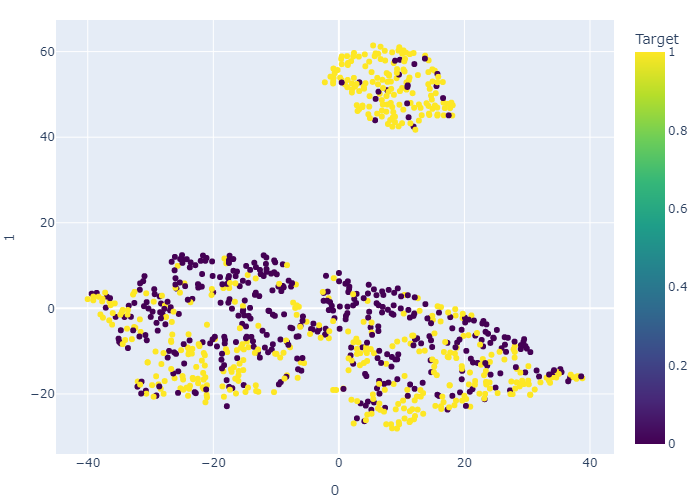
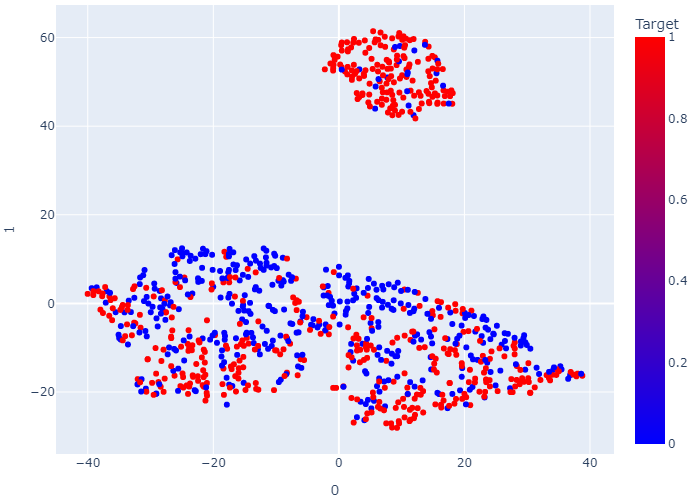
reorganizing files and adding Readme

diff --git a/code/data_processing.py b/code/data_processing.py
@@ -12,85 +12,87 @@ from imblearn.under_sampling import RandomUnderSampler
 #----------- external imports 
 
 
-def split_data(data_type:str):
+def process_data_binary():
 
-    if data_type == 'binary': 
-        df_heart = pd.read_csv("data/heart.csv")
+    df_heart = pd.read_csv("data/heart.csv")
 
-        le=LabelEncoder()
+    le=LabelEncoder()
 
-        df_heart['Sex']=le.fit_transform(df_heart['Sex'])
-        df_heart['RestingECG']=le.fit_transform(df_heart['RestingECG'])
-        df_heart['ChestPainType']=le.fit_transform(df_heart['ChestPainType'])
-        df_heart['ExerciseAngina']=le.fit_transform(df_heart['ExerciseAngina'])
-        df_heart['ST_Slope']=le.fit_transform(df_heart['ST_Slope'])
+    df_heart['Sex']=le.fit_transform(df_heart['Sex'])
+    df_heart['RestingECG']=le.fit_transform(df_heart['RestingECG'])
+    df_heart['ChestPainType']=le.fit_transform(df_heart['ChestPainType'])
+    df_heart['ExerciseAngina']=le.fit_transform(df_heart['ExerciseAngina'])
+    df_heart['ST_Slope']=le.fit_transform(df_heart['ST_Slope'])
 
-        plt.figure(figsize=(8,6))
-        ax = sns.countplot(x=df_heart['HeartDisease'],
-                        order=df_heart['HeartDisease'].value_counts(ascending=True).index);
-                
-        abs_values = df_heart['HeartDisease'].value_counts(ascending=True)
-        rel_values = df_heart['HeartDisease'].value_counts(ascending=True, normalize=True).values * 100
-        lbls = [f'{p[0]} ({p[1]:.0f}%)' for p in zip(abs_values, rel_values)]
+    plt.figure(figsize=(8,6))
+    ax = sns.countplot(x=df_heart['HeartDisease'],
+                    order=df_heart['HeartDisease'].value_counts(ascending=True).index);
+            
+    abs_values = df_heart['HeartDisease'].value_counts(ascending=True)
+    rel_values = df_heart['HeartDisease'].value_counts(ascending=True, normalize=True).values * 100
+    lbls = [f'{p[0]} ({p[1]:.0f}%)' for p in zip(abs_values, rel_values)]
 
-        ax.bar_label(container=ax.containers[0], labels=lbls)
-        ax.set_xlabel('Heart Disease')
-        plt.savefig('../img/dist_heart.png', bbox_inches='tight')
+    ax.bar_label(container=ax.containers[0], labels=lbls)
+    ax.set_xlabel('Heart Disease')
+    plt.savefig('../img/dist_heart.png', bbox_inches='tight')
 
-        features = df_heart.loc[:, :'ST_Slope']
-        tsne = TSNE(n_components=2, random_state=0)
-        projections = tsne.fit_transform(features)
+    features = df_heart.loc[:, :'ST_Slope']
+    tsne = TSNE(n_components=2, random_state=0)
+    projections = tsne.fit_transform(features)
 
-        fig = px.scatter(
-            projections, x=0, y=1,
-            color=df_heart.HeartDisease, labels={'color': 'Target'},
-            color_continuous_scale=px.colors.sequential.Viridis
-        )
-        fig.update_layout(
-            margin=dict(l=5, r=5, t=20, b=20),
-        )
+    fig = px.scatter(
+        projections, x=0, y=1,
+        color=df_heart.HeartDisease, labels={'color': 'Target'},
+        color_continuous_scale=px.colors.sequential.Bluered
+    )
+    fig.update_layout(
+        margin=dict(l=5, r=5, t=5, b=5),
+    )
 
-        fig.write_image("../img/tnse_heart.png")
+    fig.write_image("../img/tnse_heart.png")
 
 
-        X = df_heart.drop('HeartDisease', axis=1)
-        y = df_heart['HeartDisease']
+    X = df_heart.drop('HeartDisease', axis=1)
+    y = df_heart['HeartDisease']
 
-        y = np.where(y==0,-1,1)
+    y = np.where(y==0,-1,1)
 
-    if data_type == 'multiclass': 
-        data_train = pd.read_excel("data/ann-train.xlsx", header=None)
-        data_test = pd.read_excel("data/ann-test.xlsx", header=None)
+    return X, y
 
-        columns = ['age', 'sex','on_thyroxine','query_on_thyroxine','on_antithyroid_medication','sick', \
-           'pregnant','thyroid_surgery','I131_treatment', \
-           'query_hypothyroid','query_hyperthyroid', 'lithium', 'goitre', \
-            'tumor','hypopituitary', 'psych', 'TSH', 'T3', 'TTT4', 'T4U', 'FTI', 'Target']
-        data_train.columns = columns
-        data_test.columns = columns
-        data = pd.concat([data_train, data_test], ignore_index=True, sort=False)
+def process_data_multiclass():
 
-        le=LabelEncoder()
+    data_train = pd.read_excel("data/ann-train.xlsx", header=None)
+    data_test = pd.read_excel("data/ann-test.xlsx", header=None)
 
-        data['Target']=le.fit_transform(data['Target'])
+    columns = ['age', 'sex','on_thyroxine','query_on_thyroxine','on_antithyroid_medication','sick', \
+        'pregnant','thyroid_surgery','I131_treatment', \
+        'query_hypothyroid','query_hyperthyroid', 'lithium', 'goitre', \
+        'tumor','hypopituitary', 'psych', 'TSH', 'T3', 'TTT4', 'T4U', 'FTI', 'Target']
+    data_train.columns = columns
+    data_test.columns = columns
+    data = pd.concat([data_train, data_test], ignore_index=True, sort=False)
 
-        X = data.drop('Target', axis=1)
-        y = np.array(data['Target'])
+    le=LabelEncoder()
 
-        under = RandomUnderSampler()
-        X, y = under.fit_resample(X, y)
+    data['Target']=le.fit_transform(data['Target'])
 
-        tsne = TSNE(n_components=2, random_state=0)
-        projections = tsne.fit_transform(X)
+    X = data.drop('Target', axis=1)
+    y = np.array(data['Target'])
 
-        fig = px.scatter(
-            projections, x=0, y=1,
-            color=y, labels={'color':'Target'}, 
-            color_continuous_scale=px.colors.sequential.Viridis
-        )
-        fig.update_layout(
-        margin=dict(l=5, r=5, t=20, b=20),
-        )
-        fig.write_image("../img/tnse_tyroid.png")
+    under = RandomUnderSampler()
+    X, y = under.fit_resample(X, y)
+
+    tsne = TSNE(n_components=2, random_state=0)
+    projections = tsne.fit_transform(X)
+
+    fig = px.scatter(
+        projections, x=0, y=1,
+        color=y, labels={'color':'Target'}, 
+        color_continuous_scale=px.colors.sequential.Agsunset
+    )
+    fig.update_layout(
+    margin=dict(l=5, r=5, t=5, b=5),
+    )
+    fig.write_image("../img/tnse_tyroid.png")
 
     return X, y

diff --git a/code/model_experiments.py b/code/model_experiments.py
@@ -6,10 +6,8 @@ import matplotlib.pyplot as plt
 from tqdm import tqdm
 
 
-from sklearn.model_selection import train_test_split
 from sklearn.model_selection import cross_val_predict
 from sklearn.metrics import classification_report, confusion_matrix
-from sklearn.metrics import accuracy_score, precision_score, recall_score, f1_score, mean_squared_error
 from sklearn.model_selection import cross_validate
 from sklearn.linear_model import LogisticRegression
 from sklearn.svm import LinearSVC
@@ -99,20 +97,22 @@ def changing_parameters(data_type, X, y):
 
     x = list(range(0, len(results)))
     plt.style.use('seaborn')
-    fig, ax = plt.subplots(figsize=(11,7), frameon=False)
+    fig, ax = plt.subplots(figsize=(8,7))
     ax.plot(x, results,  linewidth=3)
     ax.set_xticks(x)
-    ax.set_xticklabels(names, rotation=45)
-    ax.set(title='Testing different parameters', ylabel='Accuracy', xlabel='Parameters')
+    ax.set_xticklabels(names, rotation=90, fontsize=14)
+    ax.set_title('Testing different parameters',fontsize= 16) # title of plot
+    ax.set_xlabel('Parameters',fontsize = 15) #xlabel
+    ax.set_ylabel('Accuracy', fontsize = 15)#ylabel
+    ax.tick_params(axis='y', labelsize=14)
     ax.axvline(x=np.argmax(results), color='red', zorder=2)
+    fig.tight_layout()
     fig.savefig('../img/parameters_'+str(data_type)+'.png')
     print("Choosing the best parameters - Plot was saved in imgs folder")
     return names[np.argmax(results)], max(results)
 
 
 def comparing_adaboost_sklearn(my_ada_model, X, y):
-
-
 
     y_pred = cross_val_predict(my_ada_model, X, y, cv=10)
     my_classification = classification_report(y, y_pred)

diff --git a/code/main.py b/code/main.py
@@ -2,8 +2,6 @@
 #------ lib packages 
 import sys
 import argparse
-import numpy as np
-
 import warnings
 warnings.filterwarnings("ignore")
 
@@ -14,6 +12,10 @@ import data_processing
 import model_experiments
 
 
+"""Main file that starts the work flow by calling all the other functions"""
+
+
+#--------- Get from command line the arguments for a binary or multiclass problem ------------ #
 arg = sys.argv[1:]
 parser = argparse.ArgumentParser(description="Parse command line arguments.")
 parser.add_argument("-d", "--data", type=str, required=True,
@@ -21,7 +23,18 @@ parser.add_argument("-d", "--data", type=str, required=True,
 
 args = parser.parse_args(arg)
 
-X, y = data_processing.split_data(args.data)
+print("---------------- Pre-processing the data choosen ---------------- ")
+
+if args.data == 'binary': 
+
+    X, y = data_processing.process_data_binary()
+    my_ada_model = Adaboost.BinaryClassAdaboost(600, 1)
+
+elif args.data == 'multiclass': 
+
+    X, y = data_processing.process_data_multiclass()
+    my_ada_model = Adaboost.MultiClassAdaBoost(50, 2)
+
 
 print("---------------- Testing different max depth and number of estimator parameters ---------------- ")
 print(" ")
@@ -31,11 +44,6 @@ print("Best accuracy value is : " + str(accuracy))
 
 print("---------------- Comparing with different models ---------------- ")
 
-if args.data == 'binary': 
-    my_ada_model = Adaboost.BinaryClassAdaboost(600, 1)
-
-if args.data == 'multiclass': 
-    my_ada_model = Adaboost.MultiClassAdaBoost(50, 2)
 results = model_experiments.models_comparision(my_ada_model, X, y, folds = 10)
 print(results)
 

diff --git a/README.md b/README.md
@@ -1,19 +1,31 @@
-# Adaboost_ADSL
+## Projet Title: 
 
-Lien Drive : https://drive.google.com/drive/folders/1uSSf-K5mSrb36VYEkhwIO6uj_etJ3bzJ?usp=sharing
+### Adaboost_ADSL
+
+## Projet Description: 
+
+This code was made for the Advanced Supervised Learning projet for the Data Mining Master 2021. 
+The code has the implementation of an Binary and MultiClass Adaboost referenced from the pseudocodes of Freund et al 1997. 
+This code also has some experiments to compare the algorithm coded with other machine learning models, with the standard
+scikit learn library and some tuning parameters. 
+
+This code is written on Python with the help of some standard machine learning libraries. 
+
+## How to Run: 
+
+The main code was made to be run in the command line from the code/ folder.
+You have to set a data parameter if you want a binary or a multiclas problem. 
+We have set some standard datasets for each problem. 
+
+Exemples: 
+- For a binary problem run:
+    > python main.py -d binary
+- For a multiclass problem run:
+    > python main.py -d multiclass
+
+Credits: 
+This work was made by Lia Furtado, Hugo Vinsion and Dorian Lamothe
+
+Useful links:
 
 Lien OverLeaf : https://www.overleaf.com/2219845112hhgqxgzrzcgf
-
-Lien vidéo explication : https://www.youtube.com/watch?v=ApfvmRDyZxE&ab_channel=AIforyou-MorganGautherot
-
-Code : 
-J'ai fais une classe adaboost qui suit l'algo du prof, pour le WeakLearner j'ai utilisé un arbre de décision de profondeur 1 comme 
-le dit le prof dans son cours. dans l'article (celui de 97 Freund) il parle de 3 algos mais je crois pas qu'il détail donc je sais pas 
-si on essaye de les coder.  
-
-Status:
-I did a code for Multiclass Adaboost (still need to check if it is exactly the same as the article) from Hugo's binary code. 
-I also cleaned and changed somethings in Hugos binary code. 
-Its necessary to doublecheck if these both codes are properly and if they make sense compared to the codes in the articles. 
-Chose a binary dataset.
-Next: Started comparing with other algorithms but not finished and missing chosing a multiclass  dataset. 
